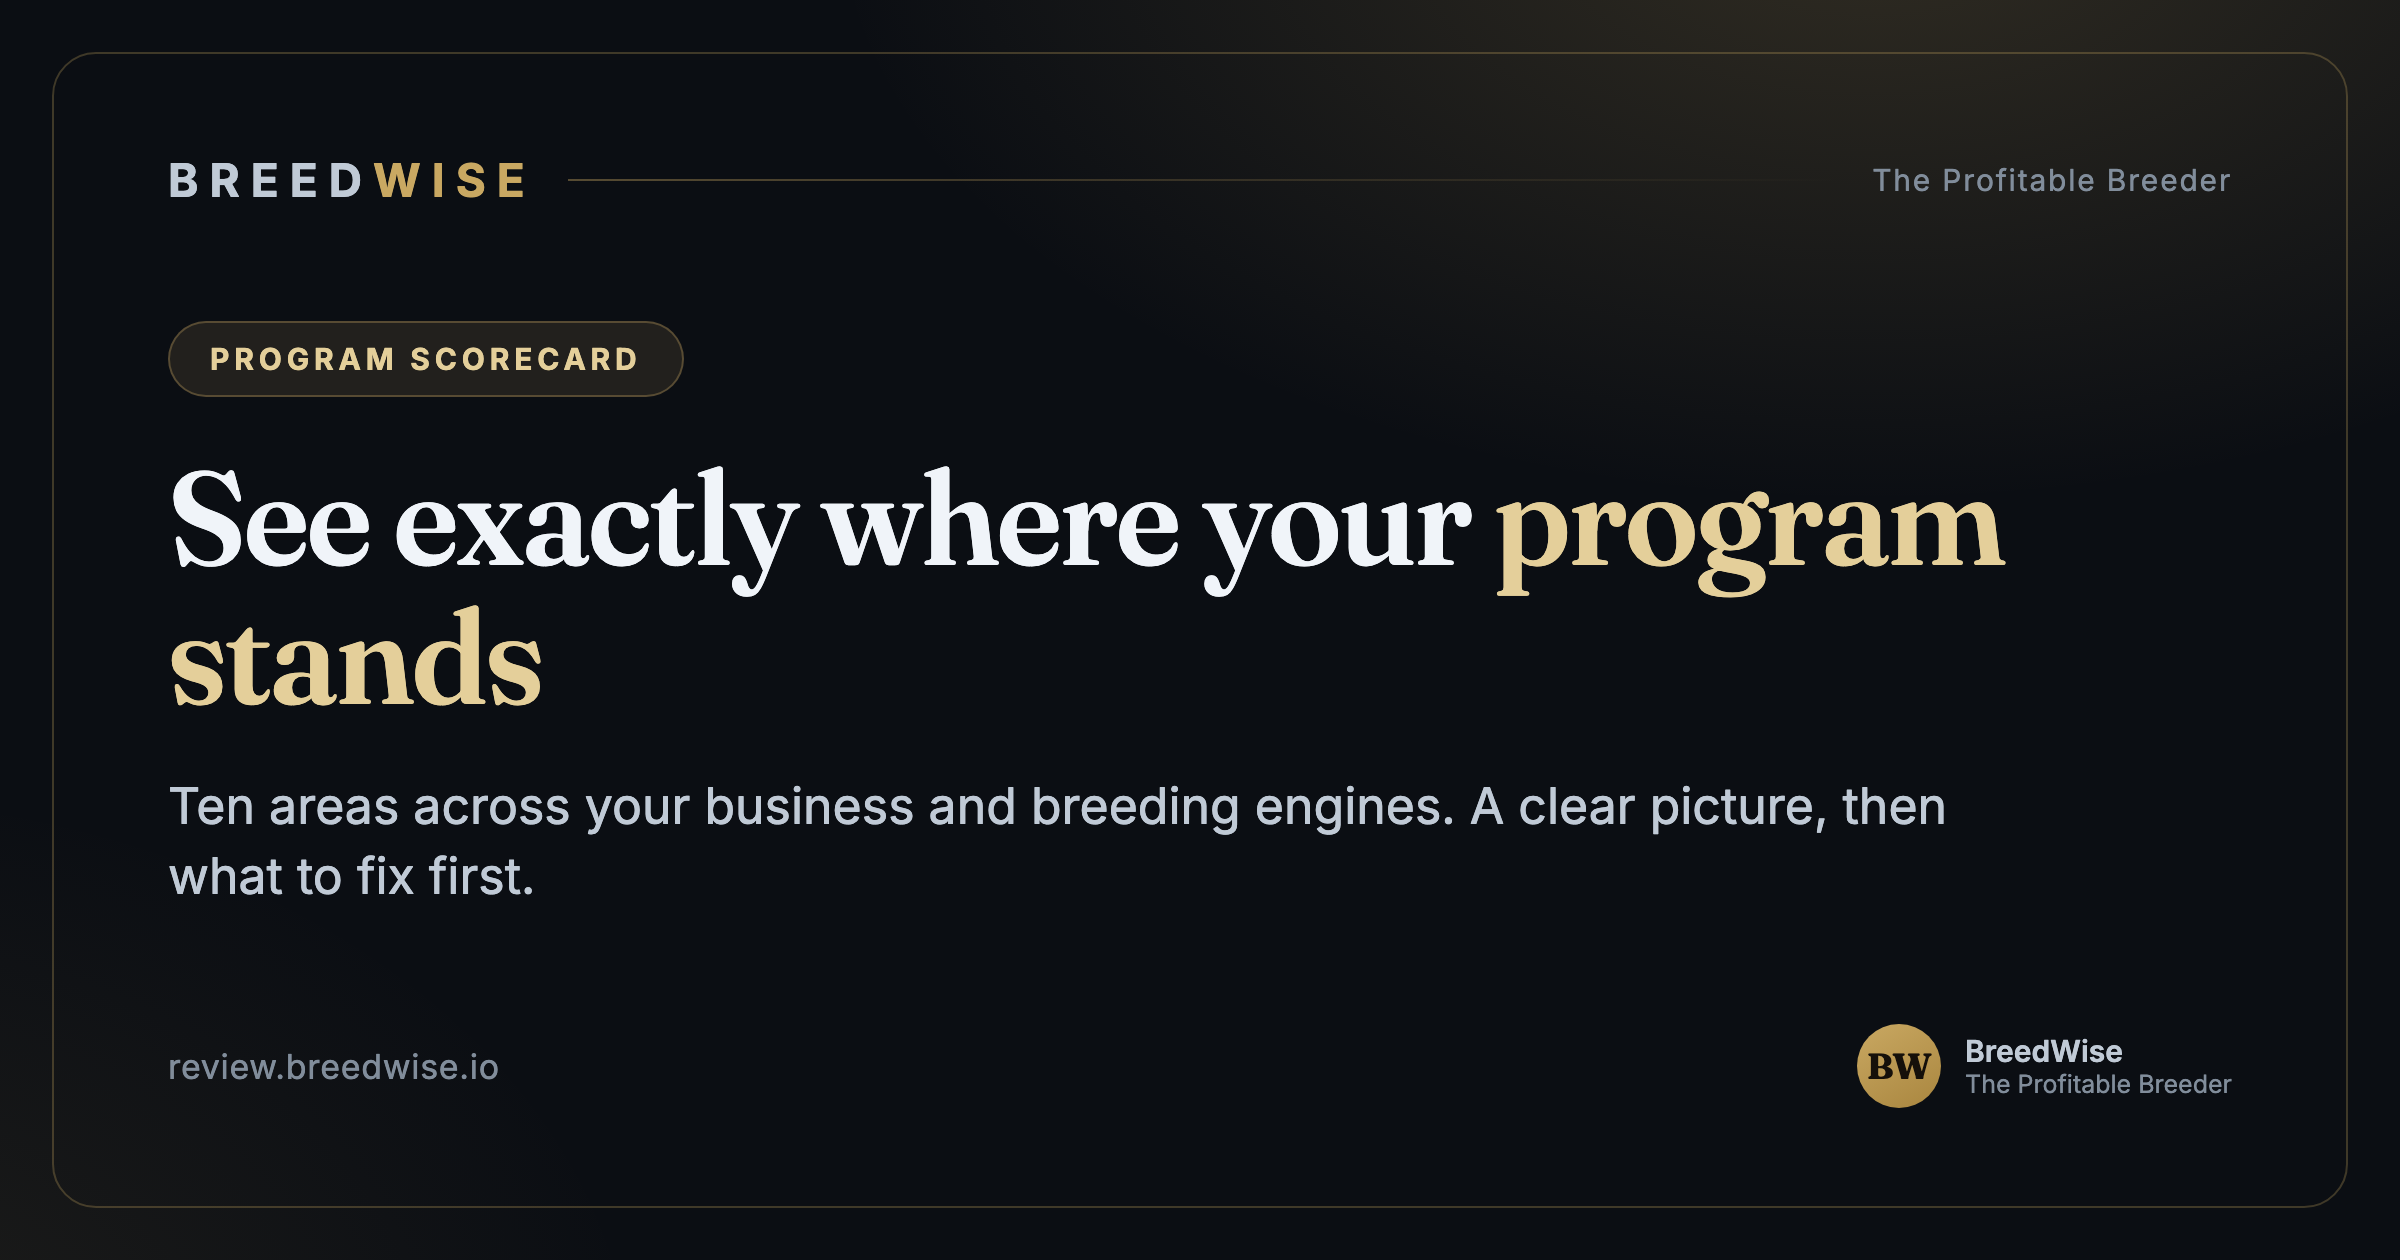
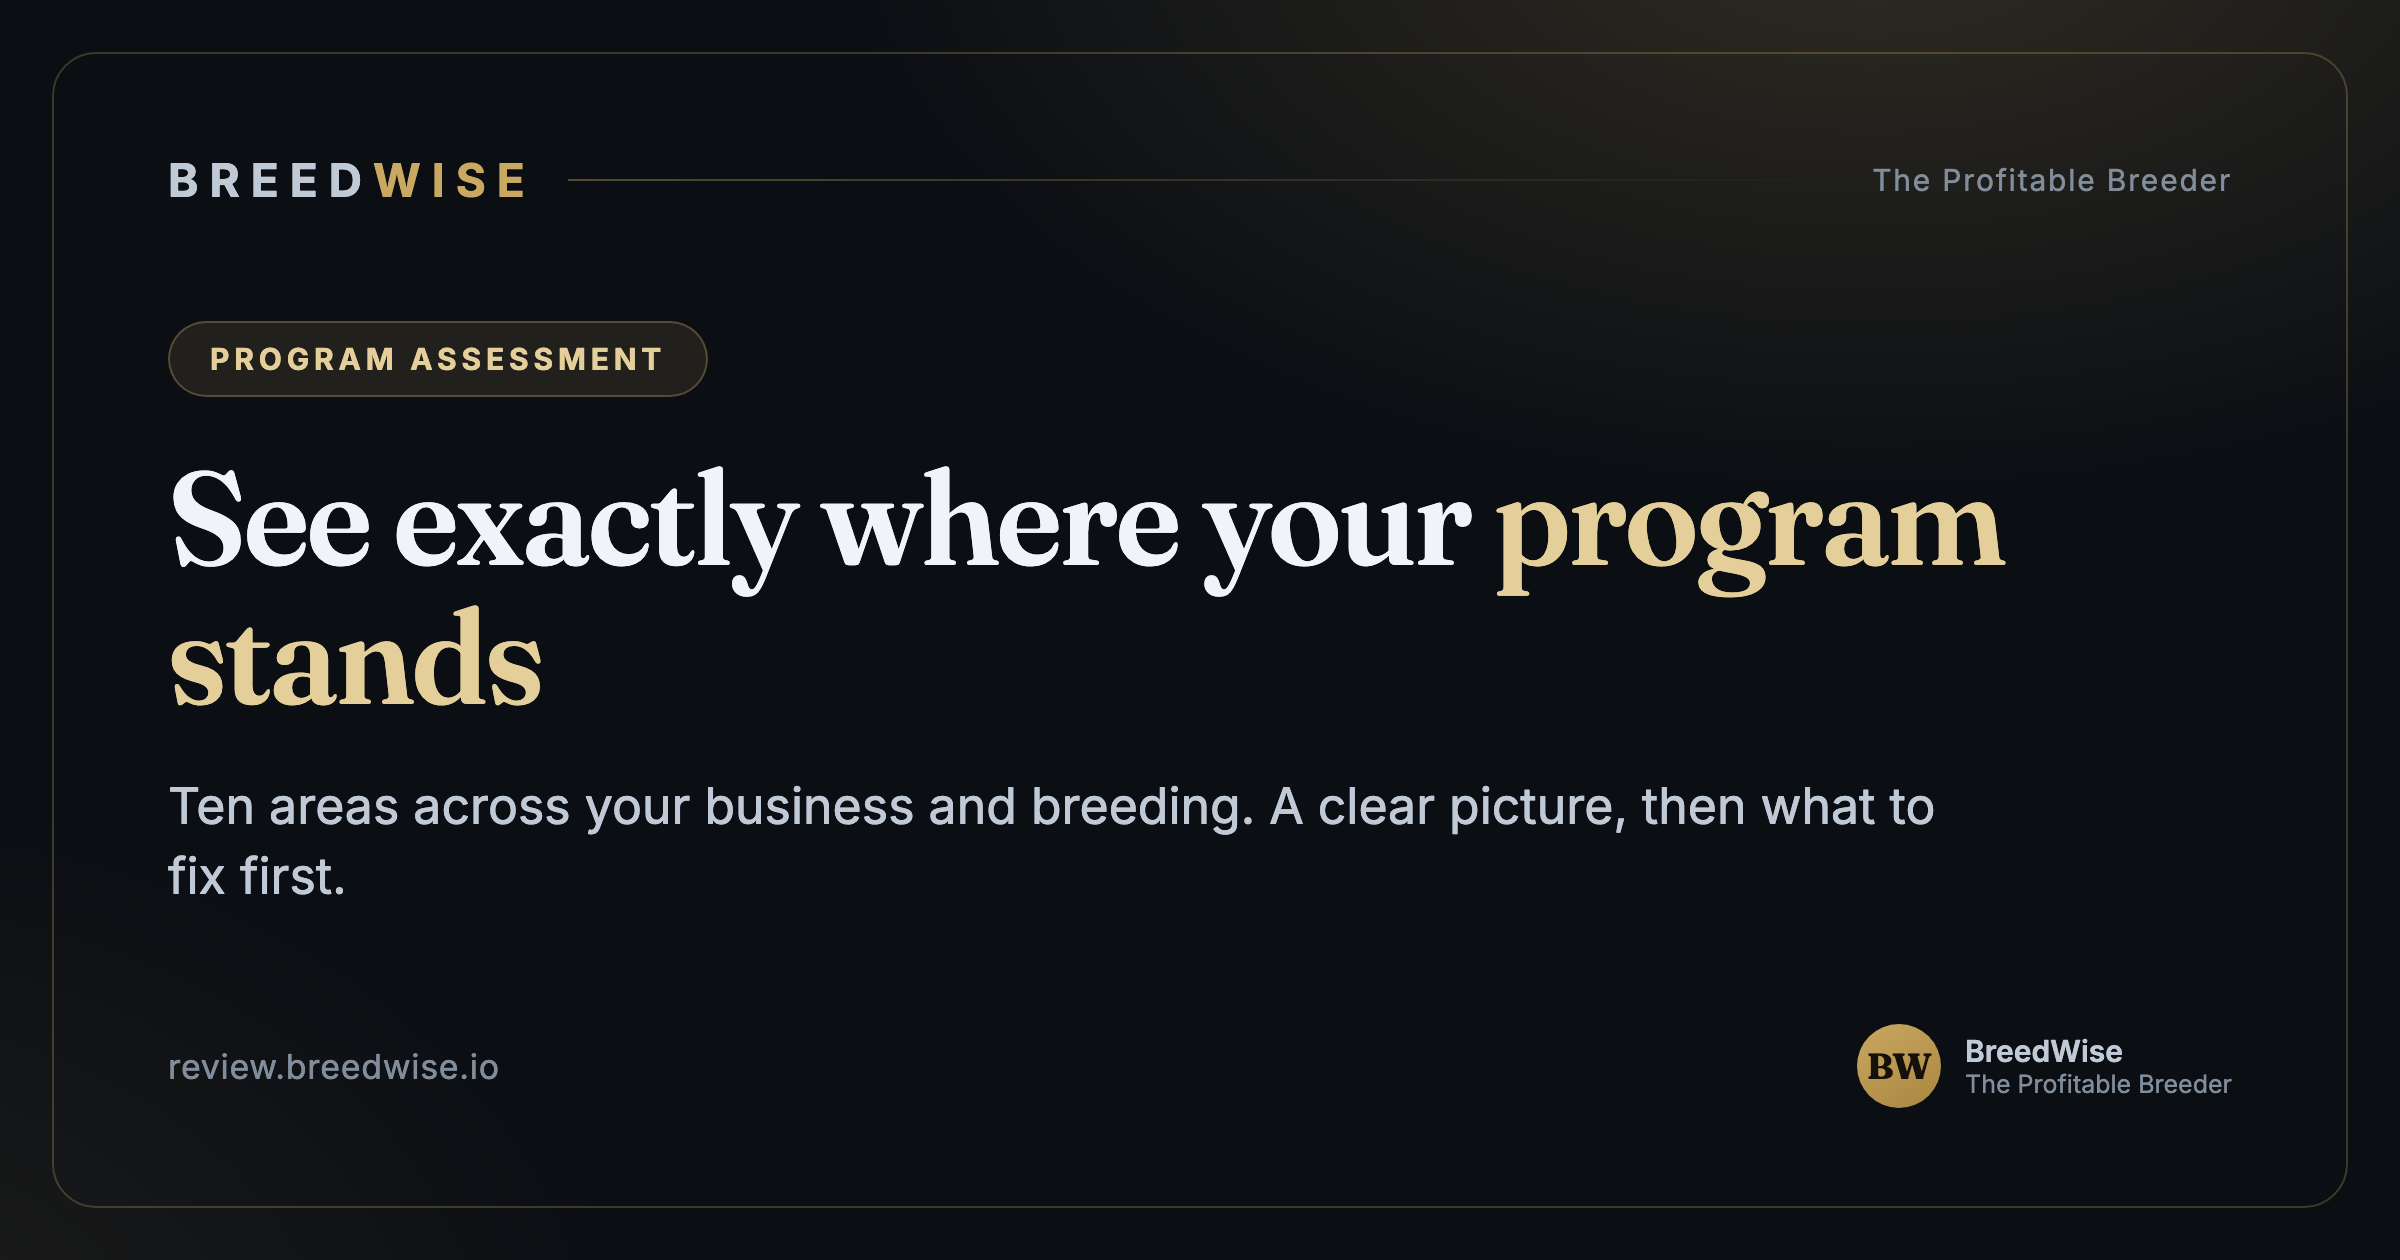
Rename member diagnostic to Program Assessment (prevent confusion)
Scorecard = free public quizzes; Assessment = in-depth in-program diagnostics.
Renames scorecard.html display + share image + stored label; admin normalizes
old rows and files it under a new Assessments category. URL, tool key, passcode
and saved-code storage unchanged.

Changed region(s): [[0.5312, 0.619, 0.8125, 0.681], [0.0625, 0.681, 0.2188, 0.7119], [0.1562, 0.2786, 0.2812, 0.3095]]

diff --git a/scorecard.html b/scorecard.html
@@ -3,7 +3,7 @@
 <head>
 <meta charset="UTF-8">
 <meta name="viewport" content="width=device-width,initial-scale=1">
-<title>BreedWise Program Scorecard™</title>
+<title>BreedWise Program Assessment</title>
 <meta name="robots" content="noindex,nofollow">
 <link rel="preconnect" href="https://fonts.googleapis.com"><link rel="preconnect" href="https://fonts.gstatic.com" crossorigin>
 <link href="https://fonts.googleapis.com/css2?family=Playfair+Display:ital,wght@0,400;0,500;0,600;0,700;1,400&family=Inter:wght@300;400;500;600;700&display=swap" rel="stylesheet">
@@ -115,14 +115,14 @@ main{padding:22px 0 60px}
 <!-- social share -->
 <meta property="og:type" content="website">
 <meta property="og:site_name" content="BreedWise">
-<meta property="og:title" content="BreedWise Program Scorecard">
+<meta property="og:title" content="BreedWise Program Assessment">
 <meta property="og:description" content="See exactly where your program stands across your business and breeding engines, then what to fix first.">
 <meta property="og:url" content="https://review.breedwise.io/scorecard.html">
 <meta property="og:image" content="https://review.breedwise.io/og/program-scorecard.png">
 <meta property="og:image:width" content="2400">
 <meta property="og:image:height" content="1260">
 <meta name="twitter:card" content="summary_large_image">
-<meta name="twitter:title" content="BreedWise Program Scorecard">
+<meta name="twitter:title" content="BreedWise Program Assessment">
 <meta name="twitter:description" content="See exactly where your program stands across your business and breeding engines, then what to fix first.">
 <meta name="twitter:image" content="https://review.breedwise.io/og/program-scorecard.png">
 </head>
@@ -131,10 +131,10 @@ main{padding:22px 0 60px}
 <div id="gate">
   <div class="gate-inner">
     <div class="gate-mark">The Profitable Breeder · BreedWise</div>
-    <h1>Program Scorecard™</h1>
+    <h1>Program Assessment</h1>
     <p>A short conversation about how your program actually runs — then a clear picture of where it stands and what deserves your attention next.</p>
     <input id="code" type="password" placeholder="Passcode" autocomplete="off" spellcheck="false" aria-label="Passcode">
-    <button class="btn" id="enter" style="width:100%;margin-top:12px">Begin my scorecard</button>
+    <button class="btn" id="enter" style="width:100%;margin-top:12px">Begin my assessment</button>
     <div class="err" id="gErr" style="text-align:center;margin-top:10px"></div>
   </div>
 </div>
@@ -142,7 +142,7 @@ main{padding:22px 0 60px}
 <div id="app">
   <header class="masthead"><div class="wrap">
     <div class="eyebrow">The Profitable Breeder · BreedWise</div>
-    <h1>BreedWise Program Scorecard™</h1>
+    <h1>BreedWise Program Assessment</h1>
     <p class="sub">Ten areas across your business engine and your breeding engine. Answer in your own words — rough numbers are fine, and specifics score better than adjectives. About 10 minutes.</p>
   </div></header>
   <main><div class="wrap">
@@ -231,7 +231,7 @@ async function turn(userText){
     if(d.focus)FOCUS=d.focus;
     if(d.vet_flag){
       $('#vet').innerHTML='<div class="vetwarn"><b>Please contact your veterinarian.</b> '+
-        'It sounds like there may be an active concern with a dog or a puppy. This scorecard is educational and cannot assess a medical situation — '+
+        'It sounds like there may be an active concern with a dog or a puppy. This assessment is educational and cannot assess a medical situation — '+
         'call your veterinarian or an emergency veterinary service now. Your answers are saved; come back when things are settled.</div>';
     }
     if(d.ready_to_score){
@@ -273,7 +273,7 @@ function prevBlock(res){
     '<div class="ar">&rarr;</div>'+
     '<div class="col now"><div class="k">Today</div><div class="v">'+(res.overall||0)+'</div></div>'+
     '</div><p class="closing" style="text-align:center">'+
-    (d>0?'Up '+d+' points since your first scorecard.':d<0?'Down '+Math.abs(d)+' points \u2014 worth looking at what changed.':'Level with your first scorecard.')+
+    (d>0?'Up '+d+' points since your first assessment.':d<0?'Down '+Math.abs(d)+' points \u2014 worth looking at what changed.':'Level with your first assessment.')+
     '</p></div>';
 }
 function renderCard(res){
@@ -281,7 +281,7 @@ function renderCard(res){
     return '<div class="item"><b>'+esc(x.area||x.priority)+'</b><p>'+esc(x.why||'')+'</p></div>';}).join('');};
   var sn=res.snapshot||{};
   $('#out').innerHTML=
-    '<div class="hero"><div class="k">BreedWise Program Scorecard™</div>'+
+    '<div class="hero"><div class="k">BreedWise Program Assessment</div>'+
       '<h2>'+esc(res.kennel_name||KENNEL||'Your Program')+'</h2>'+
       '<div class="tot"><b>'+(res.overall||0)+'</b>/100 overall — the pattern across categories matters more than the total.</div></div>'+
     '<div class="block">'+group(res.scores||[],'business','Business Engine')+
@@ -296,10 +296,10 @@ function renderCard(res){
       '<div class="item"><b>Biggest opportunities</b><p>'+esc(sn.opportunities||sn.biggest_opportunities||'')+'</p></div>'+
       '<div class="item"><b>Start here</b><p>'+esc(sn.start_here||sn.improve_first||'')+'</p></div>'+
       (sn.synthesis?'<p class="snap" style="margin-top:14px">'+esc(sn.synthesis)+'</p>':'')+
-      '<p class="closing">Your Scorecard is a snapshot of where your program stands today, not a grade \u2014 so you can stop guessing what needs attention and start prioritizing intentionally.</p></div>'+
+      '<p class="closing">Your Program Assessment is a snapshot of where your program stands today, not a grade \u2014 so you can stop guessing what needs attention and start prioritizing intentionally.</p></div>'+
     prevBlock(res)+
     '<div class="block prio"><h3>Your next step</h3>'+
-      '<p>Take this Scorecard into your <b style="color:var(--ink)">90-Day Profitable Breeder Blueprint</b>. As you work through the program, you will learn what each of these systems needs, why it matters, and what to measure.</p>'+
+      '<p>Take this assessment into your <b style="color:var(--ink)">90-Day Profitable Breeder Blueprint</b>. As you work through the program, you will learn what each of these systems needs, why it matters, and what to measure.</p>'+
       '<div class="steps"><span>See it</span><span>Understand it</span><span>Measure it</span><span>Prioritize it</span></div>'+
       '<p class="closing" style="text-align:center">Come back and reassess at Day 90 \u2014 we will show you exactly what moved.</p></div>'+
     '<div class="actions"><button class="btn" onclick="window.print()">Save / print</button>'+
@@ -319,7 +319,7 @@ async function buildScorecard(){
     renderCard(d.result||{});
   }catch(e){
     thinking(false);
-    bubble('assistant','I couldn’t build the scorecard: '+e.message+'\n\nReassess in a moment — your answers are saved.');
+    bubble('assistant','I couldn’t build the assessment: '+e.message+'\n\nReassess in a moment — your answers are saved.');
   }
   BUSY=false;
 }

diff --git a/submissions-admin.html b/submissions-admin.html
@@ -128,7 +128,8 @@ const esc=s=>String(s==null?'':s).replace(/[&<>"]/g,c=>({'&':'&amp;','<':'&lt;',
 const dcls=s=>'d-'+String(s||'New').replace('-','');
 let ROWS=[], toolFilter='All', statusFilter='All', q='', ME=null;
 const CATS=[
-  {name:'Scorecards', tools:['program-scorecard','pb-scorecard','science-scorecard','litter-scorecard','free-scorecard','litter-snapshot']},
+  {name:'Assessments', tools:['program-scorecard','implementation-assessment']},
+  {name:'Scorecards', tools:['pb-scorecard','science-scorecard','litter-scorecard','free-scorecard','litter-snapshot']},
   {name:'Opt-ins & Leads', tools:['litter-optin','vet-optin','optin','program-scorecard-optin','pb-scorecard-optin']},
   {name:'Applications', tools:['application-partial','vsl-apply','academy-application','puppy-application','abr-application']},
   {name:'Revenue & Ops', tools:['sales-results','ad-metrics','q4-plan']}
@@ -163,6 +164,8 @@ async function load(){
     .order('created_at',{ascending:false}).limit(2000);
   if(error){ $('#rows').innerHTML=`<tr><td colspan="7" class="empty">Couldn't load (${esc(error.message)}). If this is the first run, the submissions table may not be set up yet.</td></tr>`; return; }
   const raw=data||[];
+  // Program Scorecard was renamed to Program Assessment — normalize old rows' labels for display.
+  raw.forEach(r=>{ if(r.tool==='program-scorecard') r.tool_label='Program Assessment'; else if(r.tool==='program-scorecard-optin') r.tool_label='Program Assessment Opt-in'; });
   // Build the set of emails that completed a full application (from completed attribution rows).
   const completed=new Set();
   raw.forEach(r=>{ if(r.tool==='meta-attribution'){ const isP=(r.meta&&r.meta.partial===true)||/partial/i.test(r.tool_label||''); if(!isP){ const e=(r.member_email||'').toLowerCase(); if(e) completed.add(e); } } });
@@ -309,7 +312,7 @@ function downloadOne(r){
   <body><div class="paper">
     <div style="font-size:10.5px;letter-spacing:.2em;text-transform:uppercase;color:var(--gold);margin-bottom:6px">${
       r.tool==='program-scorecard'
-        ? 'BreedWise<br><span style="letter-spacing:.14em;color:var(--mid)">The Profitable Breeder · Program Scorecard</span>'
+        ? 'BreedWise<br><span style="letter-spacing:.14em;color:var(--mid)">The Profitable Breeder · Program Assessment</span>'
         : 'Breedwise · Accelerator'}</div>
     <h2>${title}</h2>
     <div class="who" style="margin:0 0 6px"><span class="tooltag">${esc(r.tool_label||r.tool)}</span>${r.member_email?' · '+esc(r.member_email):''}${date?' · '+esc(date):''}</div>
@@ -521,7 +524,7 @@ function renderAssessment(r){
       ${(rm.priorities||[]).map((p,n)=>`<p style="margin-top:6px"><b style="color:var(--gold)">0${n+1} ${esc(p.title)}</b> — ${esc(p.work_toward)}</p>`).join('')}
       <p style="margin-top:6px;color:var(--muted)">${esc(rm.next_steps||'')}</p></div>`;
 }
-/* ── BreedWise Program Scorecard™ ───────────────────────────────── */
+/* ── BreedWise Program Assessment (tool key: program-scorecard) ──── */
 function renderScorecard(r,forExport){
   const res=r.result||{}, inp=r.inputs||{};
   const all=res.scores||[];

diff --git a/supabase/functions/program-scorecard/index.ts b/supabase/functions/program-scorecard/index.ts
@@ -320,7 +320,7 @@ Deno.serve(async (req) => {
       } catch (_) { /* never block the start */ }
       try {
         await supabase.from("tool_submissions").insert({
-          tool: "program-scorecard-optin", tool_label: "Program Scorecard Opt-in",
+          tool: "program-scorecard-optin", tool_label: "Program Assessment Opt-in",
           member_name: name || null, member_email: email,
           summary: `${name || email} · started the Program Scorecard`,
           meta: { phone: phone || null, kennel: kennel || null, source: "Program Scorecard", partial: true, ts: Math.floor(Date.now() / 1000) },
@@ -388,7 +388,7 @@ Deno.serve(async (req) => {
       try {
         const { error } = await supabase.from("tool_submissions").insert({
           tool: "program-scorecard",
-          tool_label: "Program Scorecard",
+          tool_label: "Program Assessment",
           member_name: name || null,
           member_email: email || null,
           summary: `${result.overall}/100 · weakest: ${[...result.scores].sort((x: any, y: any) => x.score - y.score)[0]?.label ?? "—"}`,
